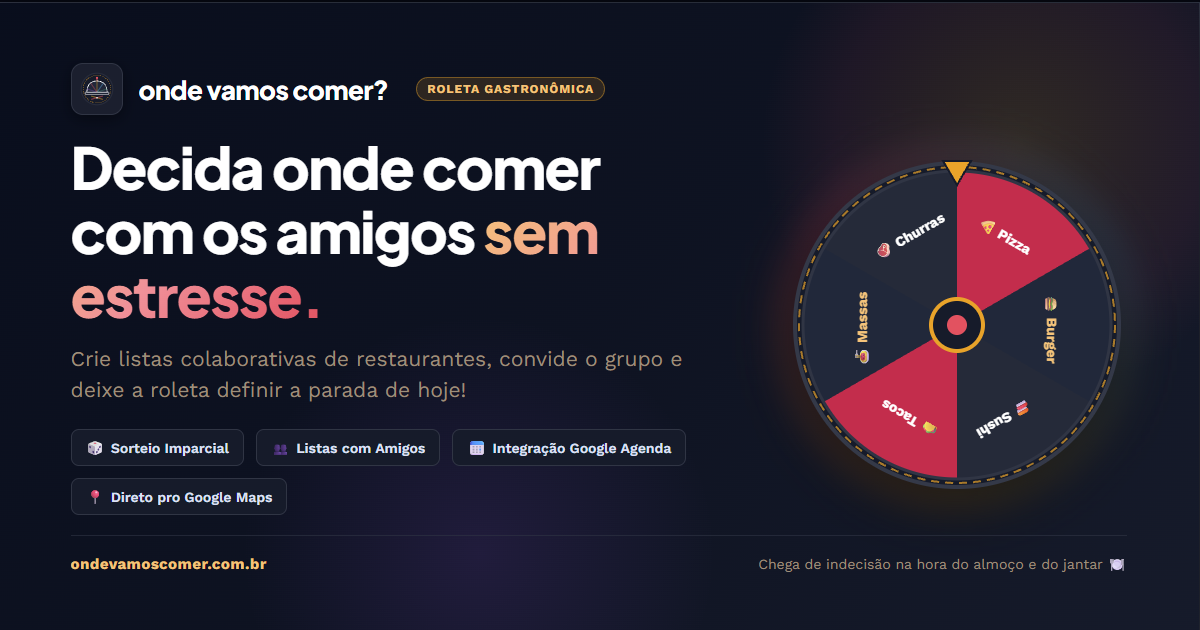
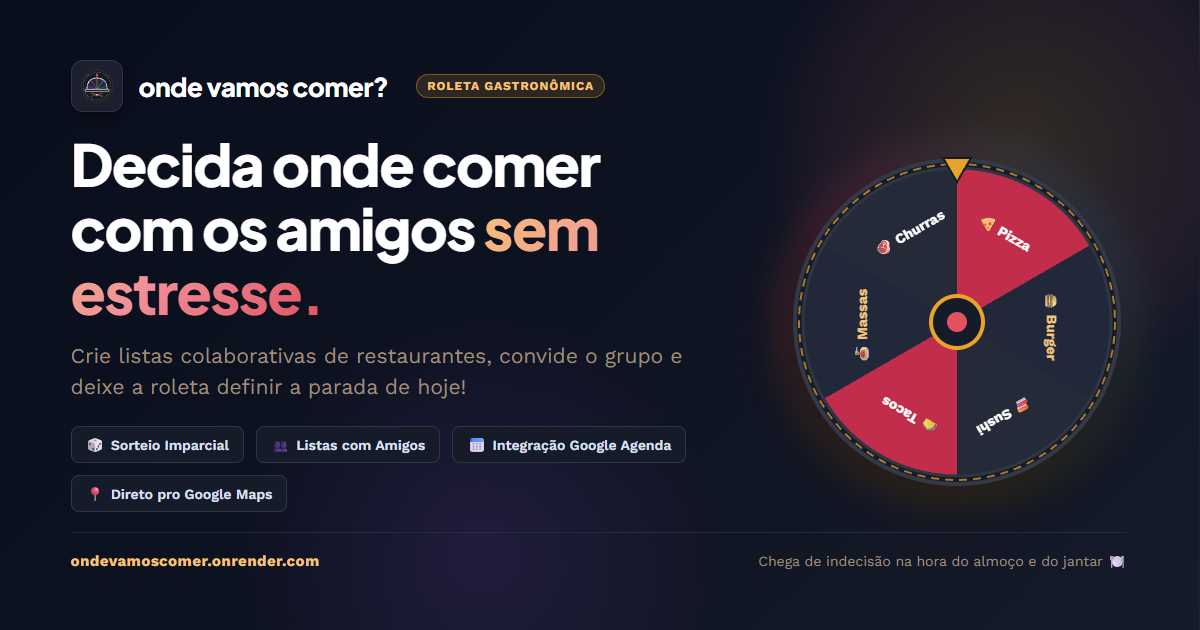
chore: update domain tag in og-preview to onrender URL

diff --git a/public/og-preview.html b/public/og-preview.html
@@ -326,7 +326,7 @@
 
     <!-- Footer Bar -->
     <div class="footer-bar">
-      <span class="domain-tag">ondevamoscomer.com.br</span>
+      <span class="domain-tag">ondevamoscomer.onrender.com</span>
       <span class="author-tag">Chega de indecisão na hora do almoço e do jantar 🍽</span>
     </div>
   </div>
